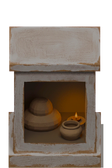
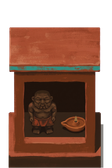
feat: starter's household shrine repainted in red ochre, a figure and a lamp inside
Claude-Session: https://claude.ai/code/session_01NQk9Q1WZoZfDzoRioyXby1

diff --git a/docs/instructions/repaint-queue.md b/docs/instructions/repaint-queue.md
@@ -193,47 +193,6 @@ the shabti is `--mesh=art/masters/meshes/shabti.glb`. `starter-plain.png` is the
 `art/masters/surfaces/starter-floor.webp` scaled to 1024, the crop every `<tier>-plain.png` is. The
 tally board has no scaffold: it attaches its own master.
 
-### `starter/shrine` — a red-ochre household shrine, Bes and a lamp inside
-
-**Attach:**
-
-1. `~/tile-previews/shrine-starter.png` — the scaffold
-2. `~/tile-previews/starter-plain.png` — the material reference
-
-```
-A wall-less product shot of a single object, painted in flat matte gouache, no background, on pure magenta #FF00FF. Portrait, two units wide by three tall, exactly as the reference. Do not re-compose it into a square. Paint over the reference image itself.
-
-The object: a merchant's HOUSEHOLD SHRINE, a mudbrick box standing on the floor. The slab on top is the
-LINTEL; the two sides and the sill frame the OPENING; inside it, the squat wide figure at the left is the
-god BES, a stout bearded dwarf, and the small dish at the right with a nub on it is a LAMP.
-
-The box is mud plaster painted RED OCHRE #b8452c, deepened to #7e3a1a on its front faces, with a
-turquoise #2a9d8f painted band along the lintel's front — NOT whitewashed, NOT pale. The recess is in
-deep shade #3a2a1c, lit only a little by the lamp. Bes is dark painted wood #5e3a1e with touches of red
-ochre on his kilt; he is clothed. The lamp is terracotta #c0612f with a small ochre flame and no glow
-round it.
-
-IT STANDS ON A PALE FLOOR AND MUST READ DARK ON IT. The floor is pale limestone, #d8c8a8. The object as a
-whole is clearly DARKER and more colourful than that: nothing on it larger than a fingertip is lighter
-than terracotta #c0612f, and only the turquoise #2a9d8f may be, in small touches. Its base, its underside
-and every part nearest the floor are its darkest, deep umber #3a2a1c. Nothing on it is white, cream,
-bleached, pale straw or whitewash — a pale part vanishes into the floor.
-
-Keep every edge, every proportion and every silhouette exactly as in the reference image — do not move, resize, straighten, add, remove or restyle any part of it, and do not change the angle it stands at. Paint only material and wear.
-
-The shadow at its foot is part of the picture: paint it #3A2A1C, with no pink and no purple in it at all.
-
-No highlights, no gloss, no rim light, no ground plane, no reflections. Matte throughout, as if lit by one dull lamp. Merchant's storehouse: fired terracotta #c0612f and #7e3a1a, honey-brown timber #9a6a3c and #5e3a1e, red ochre paint #b8452c, turquoise faience #2a9d8f. Saturated and warm — colour that reads from across the room — and never as pale as the floor it stands on.
-```
-
-Then, once the return is in `~/Downloads`:
-
-```sh
-scaffold shrine
-yarn import-tile art/masters/props/starter/shrine.webp --tier=starter --name=shrine --slot=prop \
-  --filter=smooth --mask="$OBJ" --seat="$SHADOW" --scale=0.85
-```
-
 ### `starter/pillar` — a leaning timber prop, red ochre on its wedges
 
 **Attach:**
